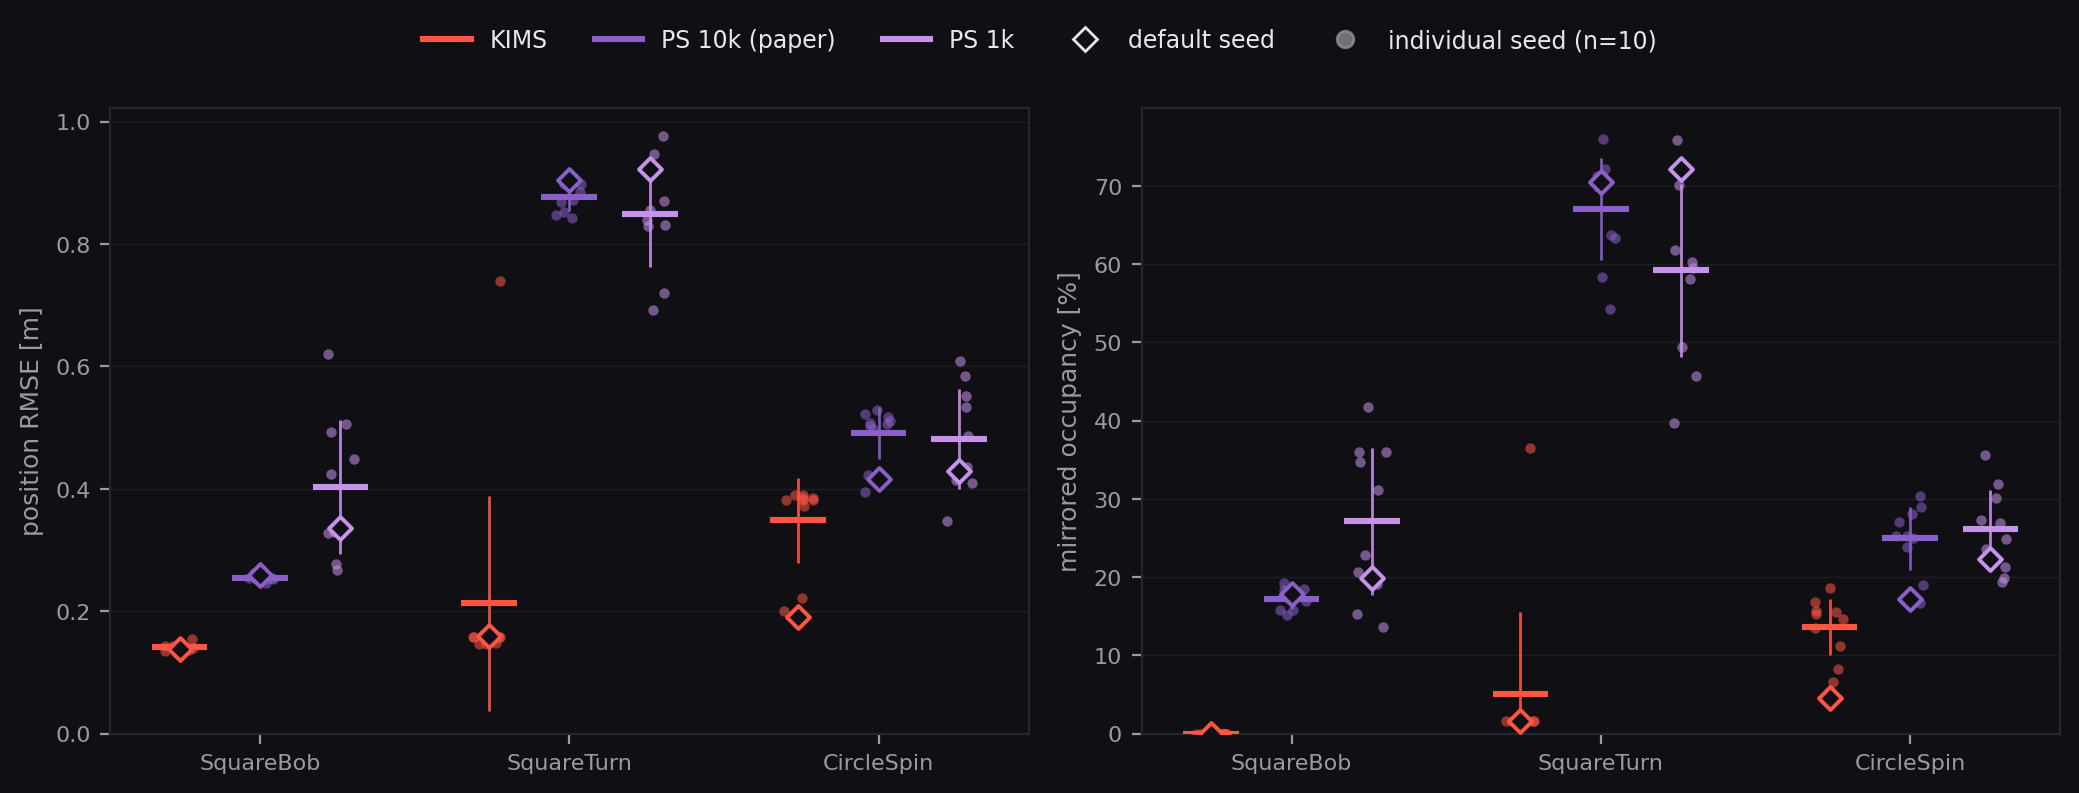
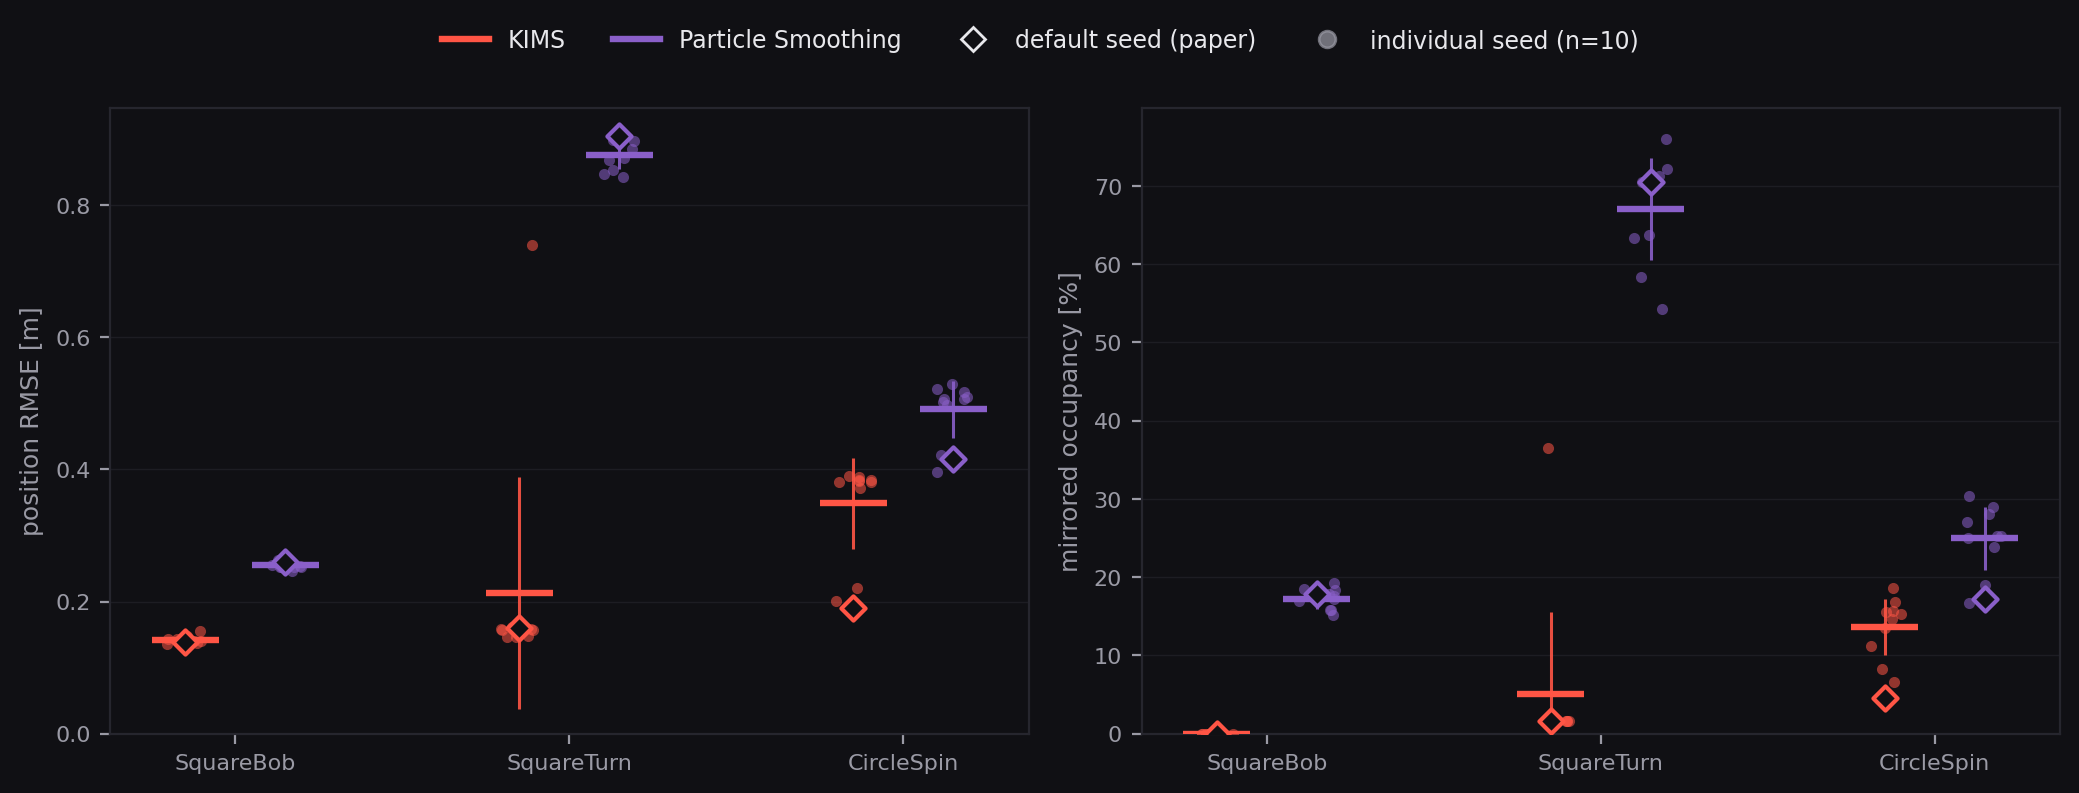
docs: seed figure shows KIMS and Particle Smoothing at the paper settings

diff --git a/docs/index.html b/docs/index.html
@@ -286,16 +286,17 @@ roslaunch kims kims_online.launch dataset:=ntu sequence:=eee_01</pre>
   <h2><span class="accent">🎲</span> Seed repetition</h2>
   <p>Random-seed protocol: both stochastic estimators were re-run over ten seeds on the three
      IULUI sequences (KIMS <code>seed:=1001…1010</code>, Particle Smoothing
-     <code>seed:=101…110</code> at the paper's 10,000 particles and at a reduced 1,000). Diamonds
-     are the default-seed runs, which for KIMS and PS 10k are the values in Tables I and III of the
-     paper, dots are the individual seeds, bars the mean ± std. Occupancy uses the paper's
-     definition (gated to 0.25 m from the anchor plane).</p>
+     <code>seed:=101…110</code>), both at the particle and rollout counts used in the paper.
+     Diamonds are the default-seed runs, which are the values in Tables I and III of the paper,
+     dots are the individual seeds, bars the mean ± std. Occupancy uses the paper's definition
+     (gated to 0.25 m from the anchor plane).</p>
   <img src="assets/fig_seeds.png" alt="Seed-repetition statistics for KIMS and Particle Smoothing"
        style="width:100%;border-radius:12px;margin-top:6px">
   <p class="cap">KIMS stays below Particle Smoothing on every sequence at every seed. Its spread
      comes from transients at plane crossings rather than consolidation in the mirrored basin.
-     Particle Smoothing collapses at every seed at both particle counts, so the collapse is
-     structural under a reflection-symmetric likelihood rather than a budget artifact.</p>
+     Particle Smoothing collapses at every seed, and it does so at the reduced 1,000-particle
+     budget as well, so the collapse is structural under a reflection-symmetric likelihood rather
+     than an artifact of the particle budget.</p>
 </section>
 
 <section id="baselines" class="wrap">
@@ -328,7 +329,8 @@ roslaunch kims kims_online.launch dataset:=ntu sequence:=eee_01</pre>
      smoothing over the particle genealogy. The paper uses <strong>10,000 particles</strong>, matching
      the KIMS rollout budget; on the Jetson Orin NX this costs 1.46 ms per epoch, well inside the
      10 ms UWB period, so the sample-matched setting is also the real-time-feasible one. The
-     reduced 1,000-particle configuration is kept as a budget comparison in the figure below.</p>
+     reduced 1,000-particle configuration collapses in the same way, so the failure does not come
+     from the particle budget.</p>
   <pre># reproduce every baseline number in the paper
 python3 scripts/run.py --method all --dataset all
 
